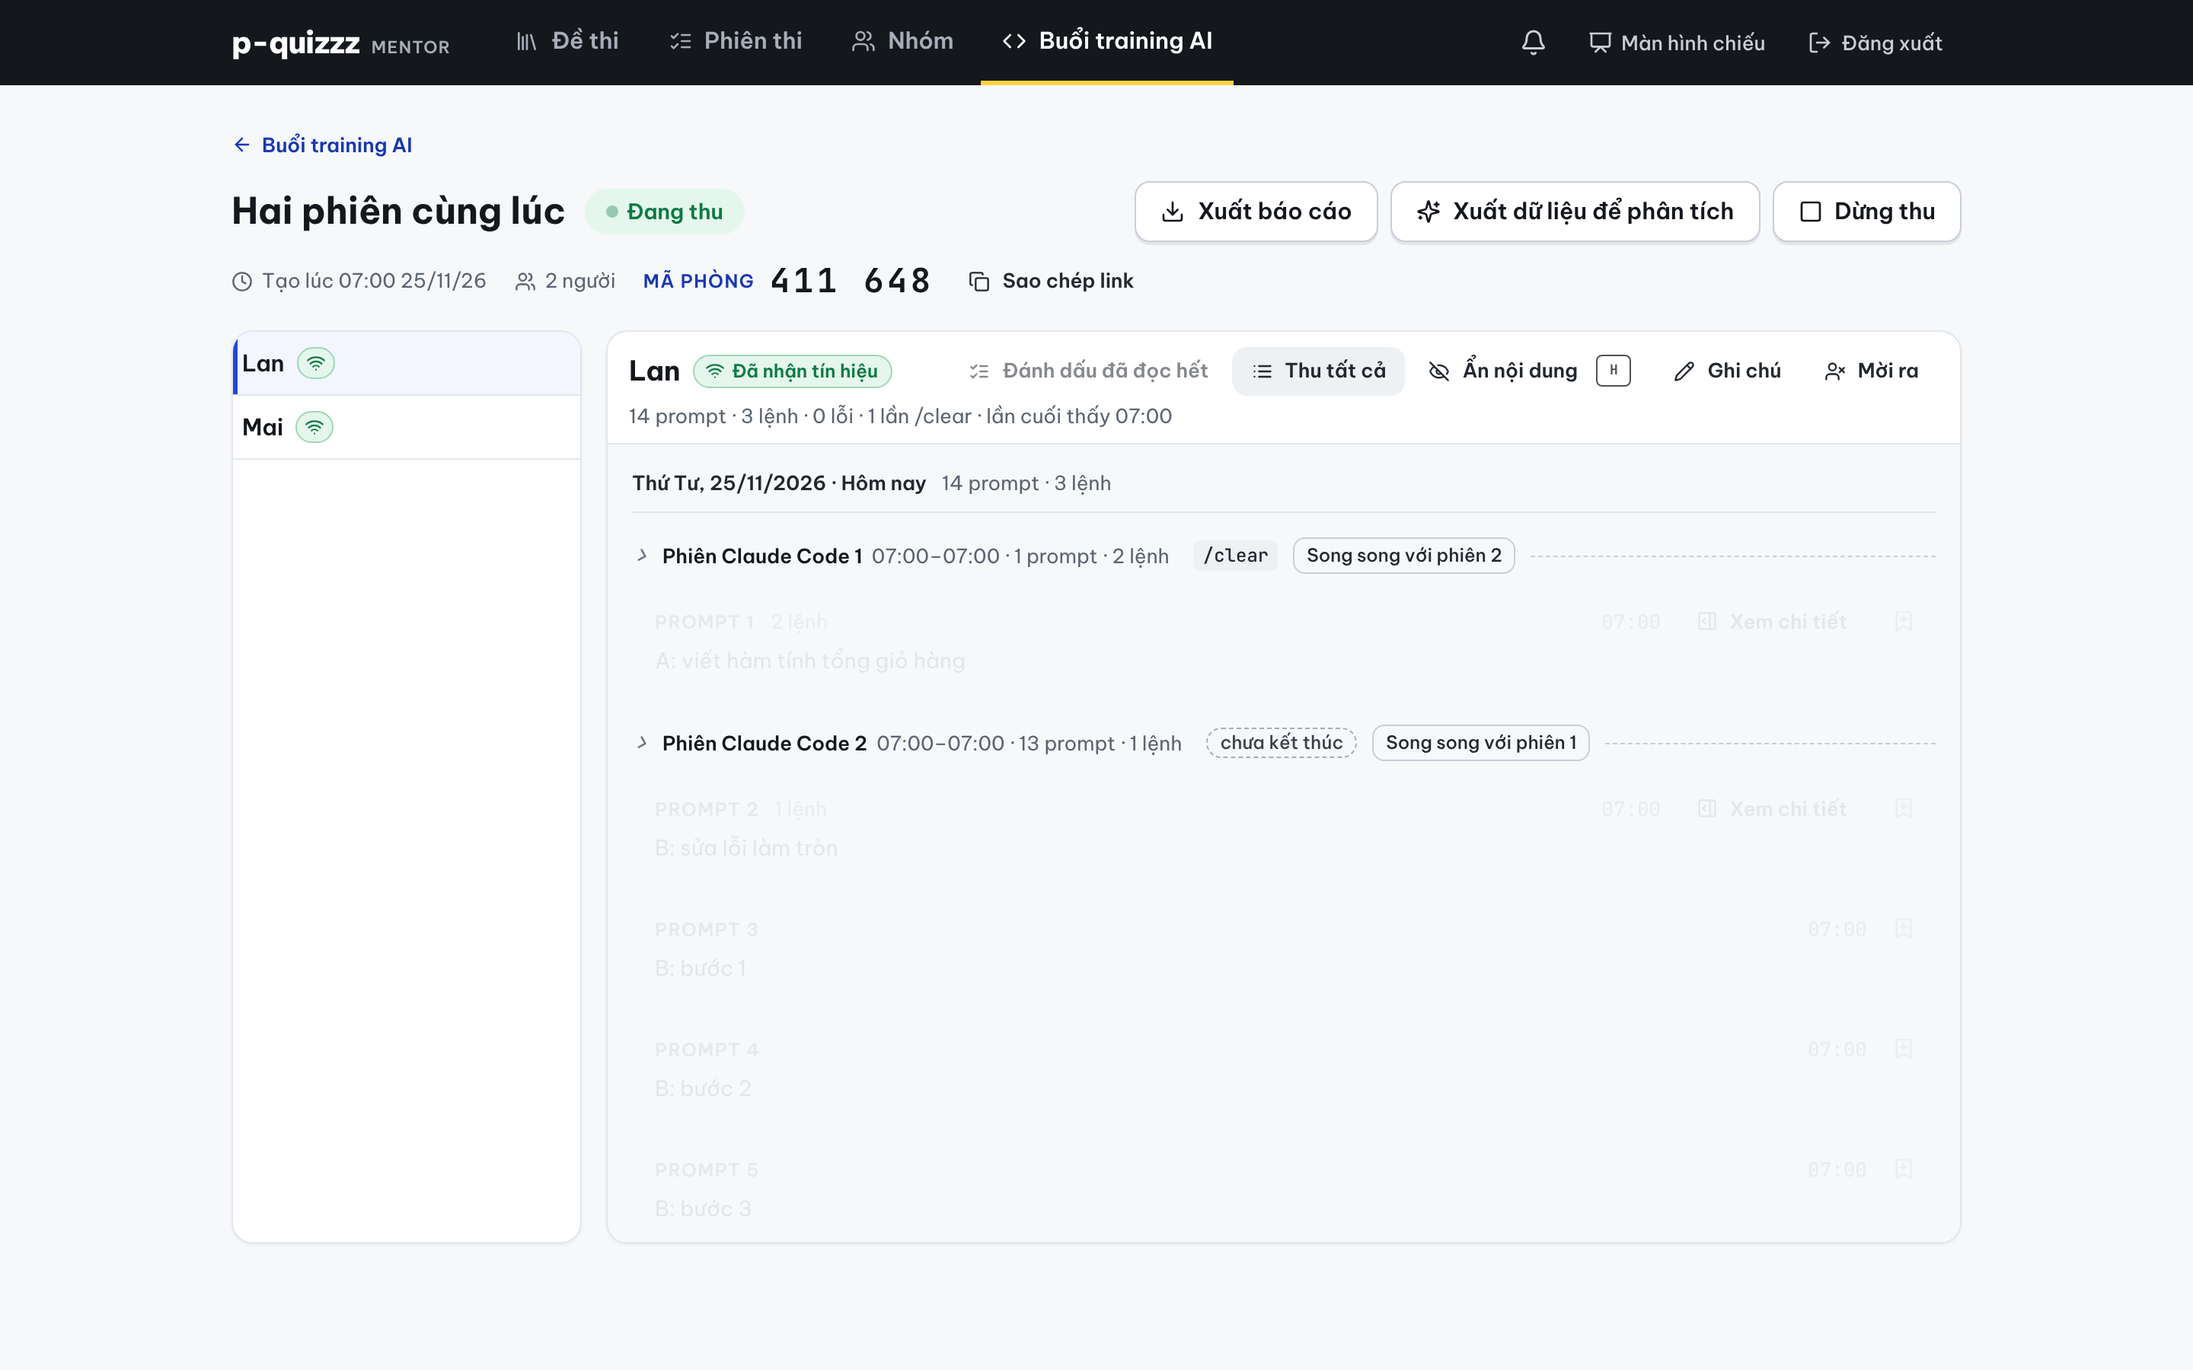
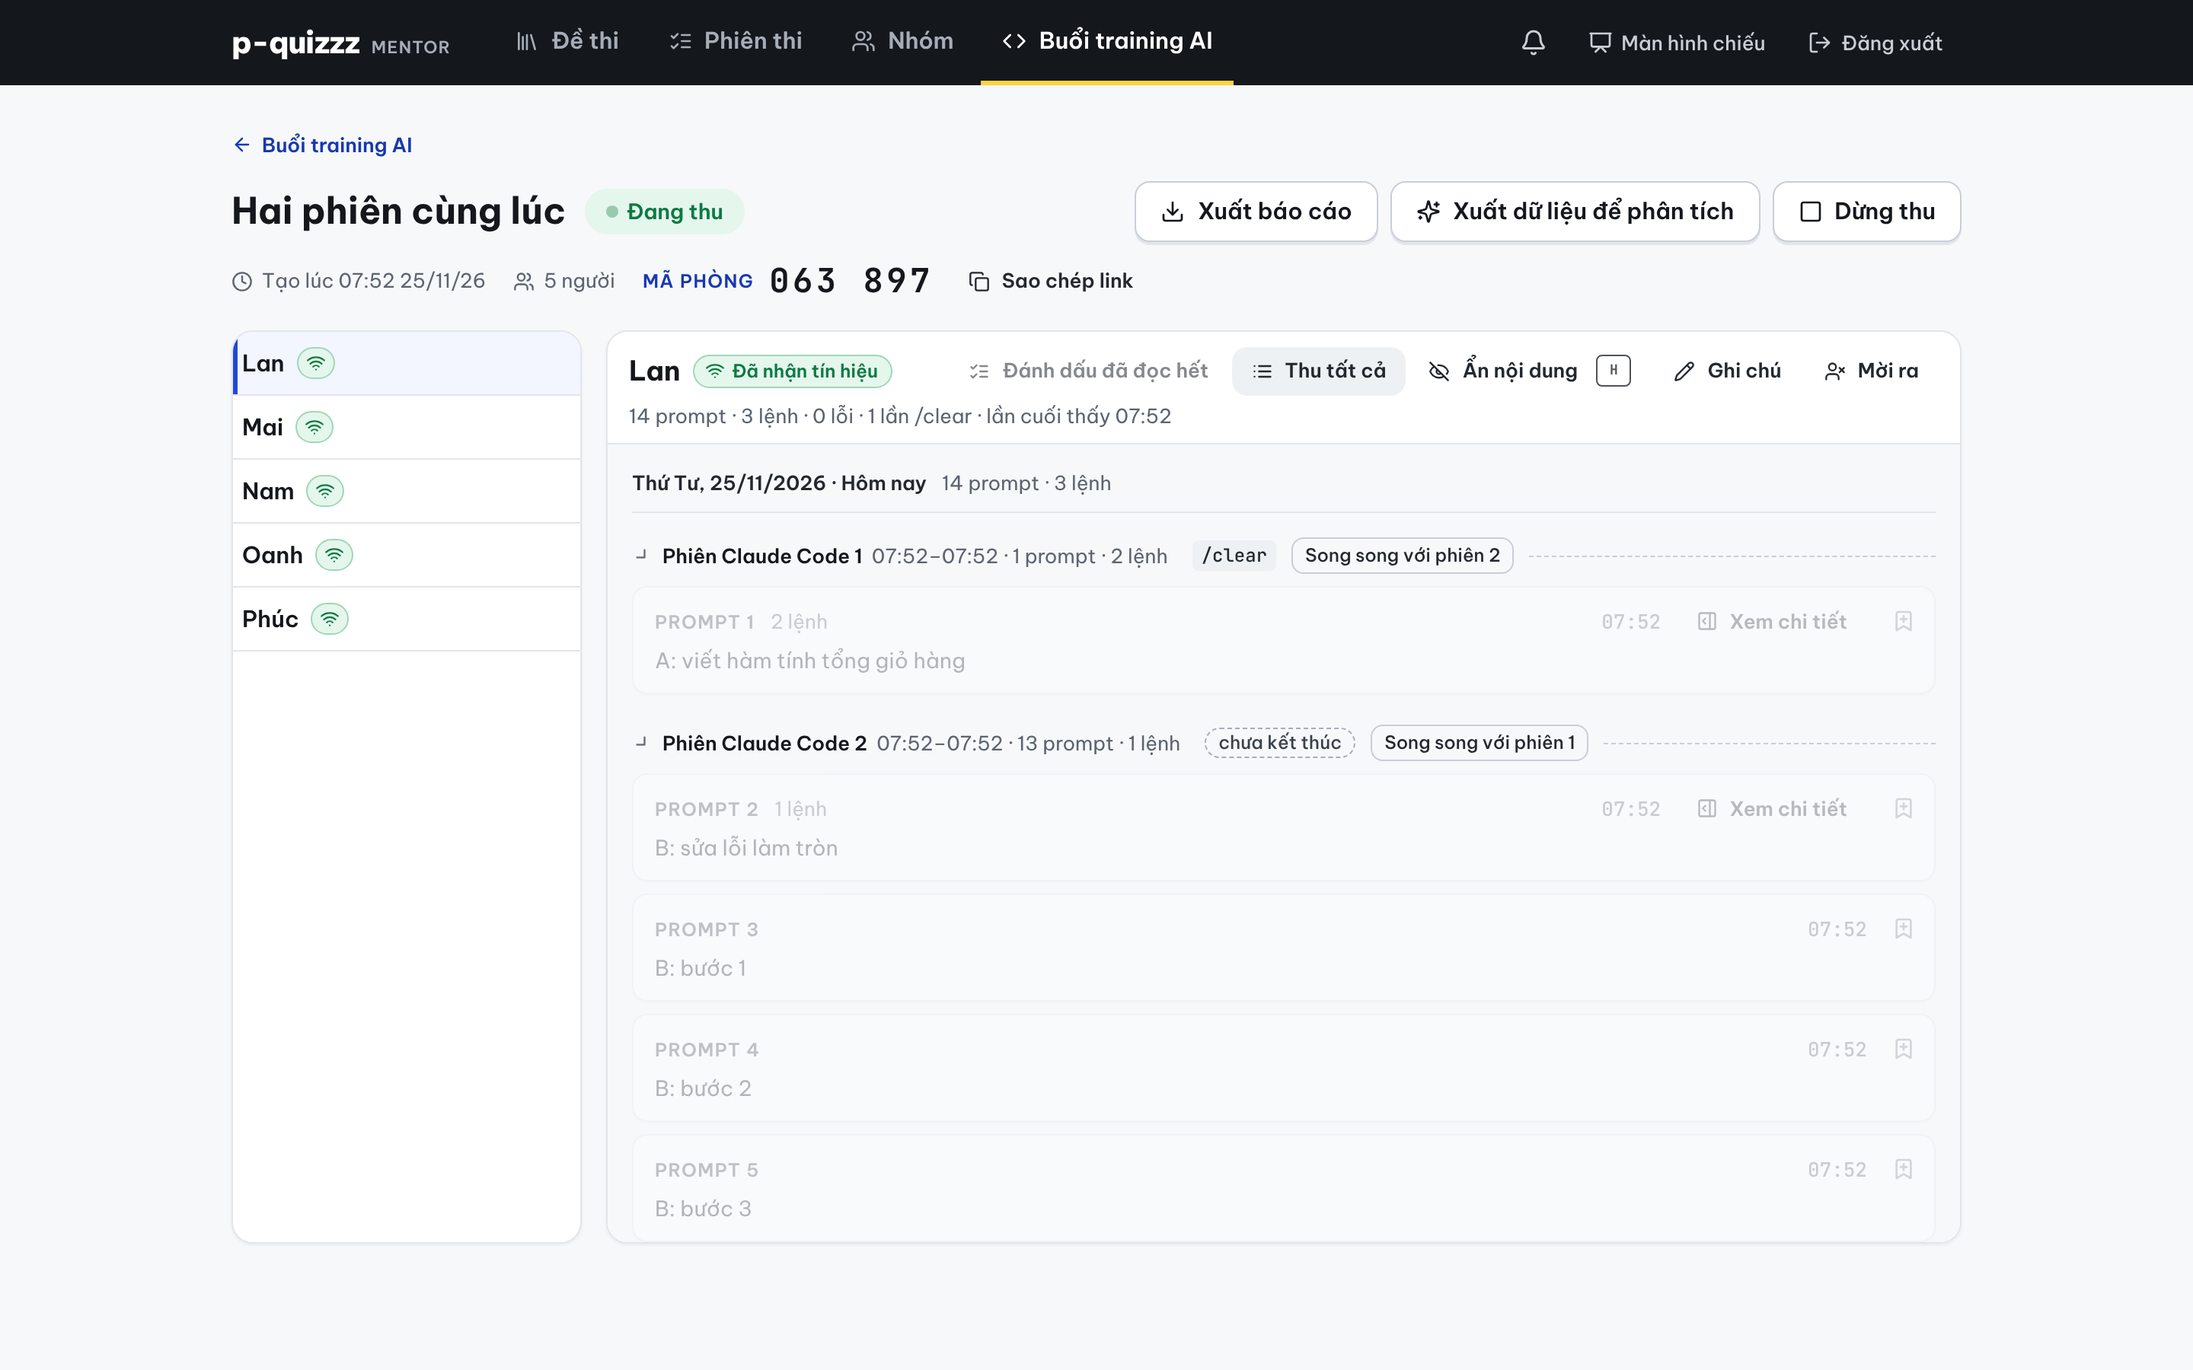
fix(S43): wide member table never scrolls sideways with long flag chips; S43 done
Claude-Session: https://claude.ai/code/session_015cYECK6mzcqnyASZvphVq9

diff --git a/e2e/training-sessions.spec.ts b/e2e/training-sessions.spec.ts
@@ -68,6 +68,14 @@ test('two sessions at once: blocks, new marks that fade after 2 seconds, the mem
   const { id, roomCode } = await newTraining(mentor, 'Hai phiên cùng lúc');
   const sendLan = await join(api, id, roomCode, 'Lan', '10.43.0.1');
   const sendMai = await join(api, id, roomCode, 'Mai', '10.43.0.2');
+  // Members whose rows are the widest: long flag chips and "có thể đang kẹt" (they get their events after the first look, so they have "N mới" too).
+  const sendNam = await join(api, id, roomCode, 'Nam', '10.43.0.6');
+  const sendOanh = await join(api, id, roomCode, 'Oanh', '10.43.0.7');
+  const sendPhuc = await join(api, id, roomCode, 'Phúc', '10.43.0.8');
+  const N = 'cccc3333-0000-4000-8000-0000000000c1';
+  await sendNam(prompt('Nam: bắt đầu', N));
+  await sendOanh(prompt('Oanh: bắt đầu', N));
+  await sendPhuc(prompt('Phúc: bắt đầu', N));
   const A = 'cccc3333-0000-4000-8000-00000000000a';
   const B = 'cccc3333-0000-4000-8000-00000000000b';
 
@@ -129,6 +137,9 @@ test('two sessions at once: blocks, new marks that fade after 2 seconds, the mem
   await page.goto(`/admin/trainings/${id}`);
   await expect(page.getByRole('button', { name: 'Lan', exact: true })).toBeVisible();
   await sendLan(prompt('B: prompt mới nhất', B), prompt('A: viết test cho giỏ hàng', A), bash('npm test', A));
+  await sendNam(prompt('Nam: sửa 1', N), edit('src/cart.test.ts', "it('a', () => {", "it.skip('a', () => {", N), prompt('Nam: sửa 2', N), edit('src/b.ts', 'x', 'y', N), prompt('Nam: sửa 3', N));
+  await sendOanh(prompt('Oanh: dọn dẹp', N), bash('rm -rf /', N));
+  await sendPhuc(prompt('Phúc: chạy test', N), bash('npm test', N, false), bash('npm test', N, false), bash('npm test', N, false));
   // The list counts new prompts only, with the word "mới"; the command of an old prompt would not be counted.
   const lanRow = page.locator('tr', { has: page.getByRole('button', { name: 'Lan', exact: true }) });
   await expect(lanRow.locator('[data-member-new]')).toContainText('2 mới');
@@ -138,13 +149,22 @@ test('two sessions at once: blocks, new marks that fade after 2 seconds, the mem
   for (const width of [1280, 1440]) {
     await page.setViewportSize({ width, height: 900 });
     const scrollBox = page.getByRole('table', { name: 'Học viên' }).locator('xpath=..');
+    await expect(page.locator('[data-flag="dangerous_command"]').first()).toBeVisible({ timeout: 10_000 });
+    await expect(page.locator('[data-flag="edited_not_verified"]').first()).toBeVisible();
+    await expect(page.locator('[data-member-status]').filter({ hasText: 'có thể đang kẹt' })).toBeVisible();
     expect(await scrollBox.evaluate(el => el.scrollWidth <= el.clientWidth), `no horizontal overflow at ${width}`).toBe(true);
     const outer = await box(scrollBox);
-    const badgeBox = await box(lanRow.locator('[data-member-new]'));
-    expect(badgeBox.x).toBeGreaterThanOrEqual(outer.x);
-    expect(badgeBox.x + badgeBox.width).toBeLessThanOrEqual(outer.x + outer.width + 0.5);
-    expect(outer.x + outer.width - (badgeBox.x + badgeBox.width)).toBeLessThan(24);
+    const marks = page.locator('[data-member-new]');
+    expect(await marks.count()).toBeGreaterThanOrEqual(4);
+    for (const b of await marks.all()) {
+      const r = await box(b);
+      expect(r.x).toBeGreaterThanOrEqual(outer.x);
+      expect(r.x + r.width).toBeLessThanOrEqual(outer.x + outer.width + 0.5);
+      expect(outer.x + outer.width - (r.x + r.width)).toBeLessThan(24);
+    }
     await expect(lanRow.locator('[data-member-new]')).toContainText('2 mới');
+    // The state line stays on one line (its height is one line of 12px text).
+    expect((await box(page.locator('[data-member-status]').filter({ hasText: 'có thể đang kẹt' }))).height).toBeLessThan(20);
   }
   await page.setViewportSize(DESKTOP);
   await page.screenshot({ path: shotPath('S43', 'members') });
@@ -186,7 +206,7 @@ test('two sessions at once: blocks, new marks that fade after 2 seconds, the mem
   await page.reload();
   await expect(frame(page).getByText('B: prompt mới nhất')).toBeVisible();
   await expect(badges(page)).toHaveCount(0);
-  await expect(page.locator('[data-member-new]')).toHaveCount(0);
+  await expect(lanRow.locator('[data-member-new]')).toHaveCount(0);
 
   // An event in an old prompt: it does not add to the list; the old prompt says "· 1 mới" and gets a strip "Lệnh mới".
   await setFocus(false);
@@ -200,7 +220,7 @@ test('two sessions at once: blocks, new marks that fade after 2 seconds, the mem
   await expect(old.locator('[data-new-events]')).toHaveText('1 mới');
   await expect(old.locator('[data-event-strip="command"]')).toContainText('npm run lint');
   await expect(old.locator('[data-new-badge="Lệnh mới"]')).toBeVisible();
-  await expect(page.locator('[data-member-new]')).toHaveCount(0);
+  await expect(lanRow.locator('[data-member-new]')).toHaveCount(0);
   await old.screenshot({ path: shotPath('S43', 'card-new-command') });
 
   // The chip: unread prompts out of the frame, on the edge of their side; a click goes to the nearest one.

diff --git a/src/web/features/training-admin/ui/MembersTable.tsx b/src/web/features/training-admin/ui/MembersTable.tsx
@@ -12,7 +12,8 @@ import { ConnectionChip, FlagChip, visuallyHidden } from './chips.js';
 import { NewBadge } from './NewBadge.js';
 
 const tight = { padding: '10px 6px' } as const;
-const num = { ...td, ...tight, textAlign: 'right', fontVariantNumeric: 'tabular-nums', fontFamily: 'var(--font-mono)' } as const;
+const numTight = { padding: '10px 4px' } as const;
+const num = { ...td, ...numTight, textAlign: 'right', fontVariantNumeric: 'tabular-nums', fontFamily: 'var(--font-mono)' } as const;
 
 /**
  * The members of a training, sorted by name and kept that way: no column sorts by errors, there is no score or rank.
@@ -40,7 +41,7 @@ export function MembersTable({ members, selectedId, onSelect, onPurge, compact, 
         <table aria-label="Học viên" style={{ width: '100%', borderCollapse: 'collapse' }}>
           {!compact && (
             <thead style={{ position: 'sticky', top: 0, background: 'var(--surface-card)', zIndex: 1 }}>
-              <tr><th style={{ ...th, ...tight }}>Học viên</th><th style={{ ...th, ...tight }}>Kết nối</th><th style={{ ...th, ...tight, textAlign: 'right' }}>Prompt</th><th style={{ ...th, ...tight, textAlign: 'right' }}>Lệnh</th><th style={{ ...th, ...tight, textAlign: 'right' }}>Lỗi</th><th style={{ ...th, ...tight }}>Cờ gợi ý</th><th style={{ ...th, ...tight }}>Lần cuối</th></tr>
+              <tr><th style={{ ...th, ...tight }}>Học viên</th><th style={{ ...th, ...tight }}>Kết nối</th><th style={{ ...th, ...numTight, textAlign: 'right' }}>Prompt</th><th style={{ ...th, ...numTight, textAlign: 'right' }}>Lệnh</th><th style={{ ...th, ...numTight, textAlign: 'right' }}>Lỗi</th><th style={{ ...th, ...tight }}>Cờ gợi ý</th><th style={{ ...th, ...tight }}>Lần cuối</th></tr>
             </thead>
           )}
           <tbody ref={body} onKeyDown={onKeyDown}>
@@ -87,10 +88,10 @@ export function MembersTable({ members, selectedId, onSelect, onPurge, compact, 
                       <td style={num}>{m.promptCount}</td>
                       <td style={num}>{m.toolCount}</td>
                       <td style={num}>{m.failedCount}</td>
-                      <td style={{ ...td, ...tight, whiteSpace: 'normal' }}>
-                        <div style={{ display: 'flex', gap: 4, flexWrap: 'wrap' }}>{visibleFlags(m).map(code => <FlagChip key={code} code={code} />)}</div>
+                      <td style={{ ...td, ...tight, whiteSpace: 'normal', width: 130, maxWidth: 160 }}>
+                        <div style={{ display: 'flex', gap: 4, flexWrap: 'wrap' }}>{visibleFlags(m).map(code => <FlagChip key={code} code={code} wrap />)}</div>
                       </td>
-                      <td style={{ ...td, ...tight, color: 'var(--text-meta)', fontVariantNumeric: 'tabular-nums' }}>
+                      <td style={{ ...td, ...tight, color: 'var(--text-meta)', fontVariantNumeric: 'tabular-nums', position: 'sticky', right: 0, background: 'var(--surface-card)' }}>
                         <div style={{ display: 'flex', alignItems: 'center', justifyContent: 'space-between', gap: 8 }}>
                           <span style={{ whiteSpace: 'nowrap' }}>{formatLastSeen(m.lastSeenAt, now)}</span>
                           {badge}

diff --git a/src/web/features/training-admin/ui/chips.tsx b/src/web/features/training-admin/ui/chips.tsx
@@ -1,3 +1,4 @@
+import type { CSSProperties } from 'react';
 import type { FlagCode, TrainingStatus } from '../../../../shared/api/index.js';
 import { Icon } from '../../../shared/ui/Icon.js';
 import { StatusBadge, type SessionStatus } from '../../../shared/ui/StatusBadge.js';
@@ -40,7 +41,7 @@ export function StoppedSendingChip({ iconOnly = false }: { iconOnly?: boolean })
 
 /** "Có thể đang kẹt": a hint to the mentor, pale yellow with a flag, never red and never a verdict. With `onClick` it is a button (the chip of a day). */
 export function StuckChip({ label = 'Có thể đang kẹt', iconOnly = false, onClick }: { label?: string; iconOnly?: boolean; onClick?: () => void }) {
-  const style = { display: 'inline-flex', alignItems: 'center', gap: 5, padding: iconOnly ? '3px 5px' : '2px 9px 2px 7px', borderRadius: 'var(--radius-pill)', background: 'var(--sun-100)', color: 'var(--sun-ink)', border: '1px solid var(--sun-200)', font: 'var(--type-label)', fontSize: 12, whiteSpace: 'nowrap' } as const;
+  const style: CSSProperties = { display: 'inline-flex', alignItems: 'center', gap: 5, padding: iconOnly ? '3px 5px' : '2px 9px 2px 7px', borderRadius: 'var(--radius-pill)', background: 'var(--sun-100)', color: 'var(--sun-ink)', border: '1px solid var(--sun-200)', font: 'var(--type-label)', fontSize: 12, whiteSpace: 'nowrap' } as const;
   const body = (
     <>
       <Icon name="flag" size={13} />
@@ -56,9 +57,9 @@ export function StuckChip({ label = 'Có thể đang kẹt', iconOnly = false, o
  * A behaviour flag (PRODUCT.md §7.35c): the same pale yellow as "Có thể đang kẹt", never red, no verdict. With `onClick` it is a button that
  * jumps to the events behind it; `count` is how many events there are. The hint is the tooltip, so the mentor sees what it can and cannot tell.
  */
-export function FlagChip({ code, count, onClick, iconOnly = false }: { code: FlagCode; count?: number; onClick?: () => void; iconOnly?: boolean }) {
+export function FlagChip({ code, count, onClick, iconOnly = false, wrap = false }: { code: FlagCode; count?: number; onClick?: () => void; iconOnly?: boolean; wrap?: boolean }) {
   const info = FLAG_INFO[code];
-  const style = { display: 'inline-flex', alignItems: 'center', gap: 5, padding: iconOnly ? '3px 5px' : '2px 9px 2px 7px', borderRadius: 'var(--radius-pill)', background: 'var(--sun-100)', color: 'var(--sun-ink)', border: '1px solid var(--sun-200)', font: 'var(--type-label)', fontSize: 12, whiteSpace: 'nowrap' } as const;
+  const style: CSSProperties = { display: 'inline-flex', alignItems: 'center', gap: 5, padding: iconOnly ? '3px 5px' : '2px 9px 2px 7px', borderRadius: 'var(--radius-pill)', background: 'var(--sun-100)', color: 'var(--sun-ink)', border: '1px solid var(--sun-200)', font: 'var(--type-label)', fontSize: 12, ...(wrap ? { whiteSpace: 'normal', borderRadius: 12, textAlign: 'left', maxWidth: '100%' } : { whiteSpace: 'nowrap' }) };
   const body = (
     <>
       <Icon name={info.icon} size={13} />

diff --git a/docs/stories/S43-training-session-blocks.md b/docs/stories/S43-training-session-blocks.md
@@ -1,6 +1,6 @@
 # S43: Training: gom theo phiên Claude Code (kể cả song song) và đánh dấu prompt mới
 
-**Phụ thuộc:** S39, S41, S42 · **Trạng thái:** ⏳ (spec và thiết kế xong 2026-11-25; [prompt designer](../design/S43-training-session-blocks-ui-prompt.md), [thiết kế](../design/S43-design/))
+**Phụ thuộc:** S39, S41, S42 · **Trạng thái:** ✅ (2026-11-25, review 3 vòng + kiểm lần cuối; còn 2 AC ghi chú bên dưới; [prompt designer](../design/S43-training-session-blocks-ui-prompt.md), [thiết kế](../design/S43-design/))
 
 ## Bối cảnh
 Member có thể mở nhiều phiên Claude Code cùng lúc trong thư mục bài tập. Mã hiện tại coi các phiên nối tiếp nhau. Ví dụ `buildTimeline` (`src/web/features/training-admin/domain/timeline.ts`): mỗi khi `claudeSessionId` của sự kiện kế tiếp khác sự kiện trước, nó chèn một dải "Phiên N · mở lúc" và mở một lượt mới. Khi hai phiên xen nhau thì:
@@ -201,3 +201,4 @@ Các file là HTML của công cụ thiết kế, không chạy trong app. Token
 - **E2E**: `e2e/training-sessions.spec.ts` (3 test), sửa `training-multi-day.spec.ts` và `training-admin.spec.ts` cho khối phiên và chip mới. Ảnh ở `docs/design/S43-assets/`. 
 - **Sau review vòng 2**: bảng member rộng (chưa chọn member) vừa khít khung, không cuộn ngang ở 1280 và 1440: "N mới" nằm cuối ô "Lần cuối" (mép phải hàng), lề ô 6px, cột tên tối thiểu 132px, dòng trạng thái không xuống dòng. E2E kiểm `scrollWidth <= clientWidth` và badge nằm trọn trong khung; ảnh `members-wide.png`. Zip theo khoảng ngày: nhãn cuối khối (`/clear`, `thoát`, `tiếp từ`, `tiếp sang`) tính trên cả buổi qua `sessionContext(skeleton)`, có test hai chiều (chỉ ngày đầu, chỉ ngày sau). Architecture §11.10 mô tả `export-selection.ts`, cặp reader mới và việc `eventCount` đếm theo lượt còn `approxBytes` ước theo ngày.
 - **Lưu ý e2e**: `training-sessions` test 1 và `training-multi-day` (kiểm vị trí cuộn sau khi ẩn/hiện nội dung) từng fail một lần khi chạy cả loạt training liền nhau, pass khi chạy lại (multi-day 6/6 lần chạy riêng); chưa tìm ra nguyên nhân, nghi do thời gian (đồng hồ 2 giây đổi bố cục giữa lúc ẩn và hiện).
+- **Sửa lần cuối (bảng member rộng)**: chip cờ ở bảng rộng được phép xuống dòng (`FlagChip wrap`, cột "Cờ gợi ý" rộng 130-160px), cột số lề 4px, và ô "Lần cuối" (chứa "N mới") dính mép phải (`position: sticky; right: 0`). E2E có thêm 3 member (cờ "Sửa xong chưa chạy kiểm tra" + "Đụng vào test", "Lệnh nguy hiểm", "có thể đang kẹt") và kiểm ở 1280/1440: không cuộn ngang, mọi `[data-member-new]` nằm trọn trong khung, dòng "có thể đang kẹt" một dòng. Chip dài xuống nhiều dòng nên hơi chật (từng từ một dòng); chưa tối ưu thêm.

diff --git a/docs/stories/README.md b/docs/stories/README.md
@@ -70,7 +70,7 @@ Mỗi story là một file tự đủ ngữ cảnh để một model/người im
 | [S40](S40-training-report.md) | Training: đánh dấu ví dụ, ghi chú, xuất báo cáo trước khi kết thúc | S38, S39 | ✅ |
 | [S41](S41-training-export.md) | Training: xuất dữ liệu thô (zip, mỗi member một file) theo ngày để phân tích bằng AI cá nhân | S40 | ✅ |
 | [S42](S42-training-multi-day.md) | Training nhiều ngày: nhóm theo ngày (mới nhất ở trên, thu gọn) trên dòng thời gian | S35, S39, S40, S41 | ✅ |
-| [S43](S43-training-session-blocks.md) | Training: gom theo phiên Claude Code (kể cả song song) trong ngày, cờ theo phiên, đánh dấu prompt mới | S39, S41, S42 | ⏳ |
+| [S43](S43-training-session-blocks.md) | Training: gom theo phiên Claude Code (kể cả song song) trong ngày, cờ theo phiên, đánh dấu prompt mới | S39, S41, S42 | ✅ |
 
 ## Thứ tự & song song
 
